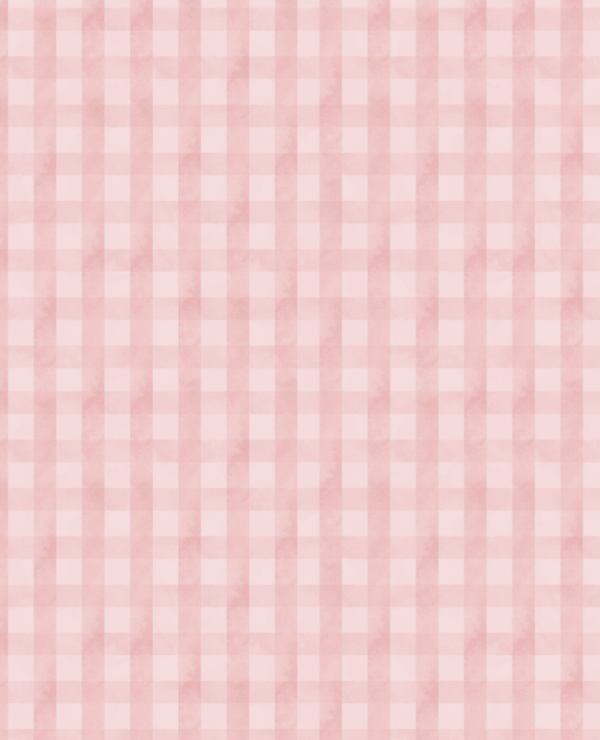
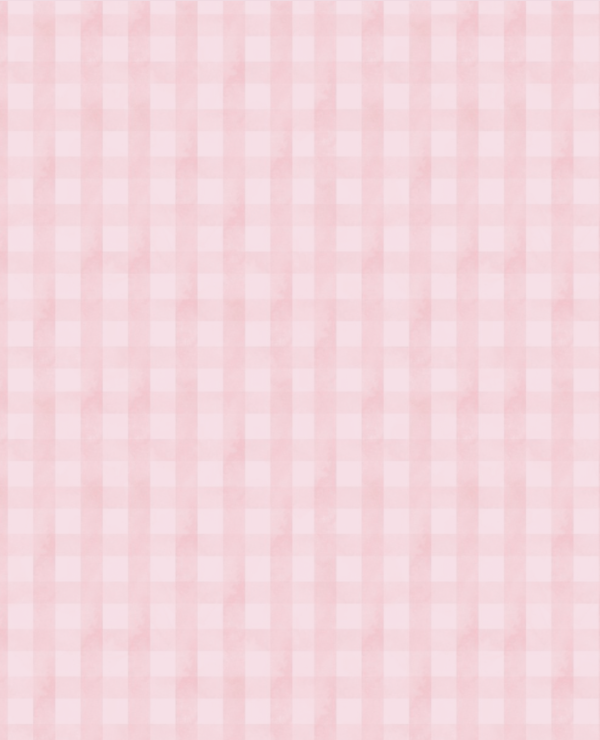
ac
acac

diff --git a/style.css b/style.css
@@ -1,7 +1,7 @@
 :root {
     --color-principal:#ffffff;
-    --color-secundario:#eeb9b8;
-    --color-terciario:#eeb9b8;
+    --color-secundario:#F2D1DB;
+    --color-terciario:#F2D1DB;
     --font-principal:'Schoolbell', cursive;
     --font-secundaria:'Nunito Sans', sans-serif;
 }
